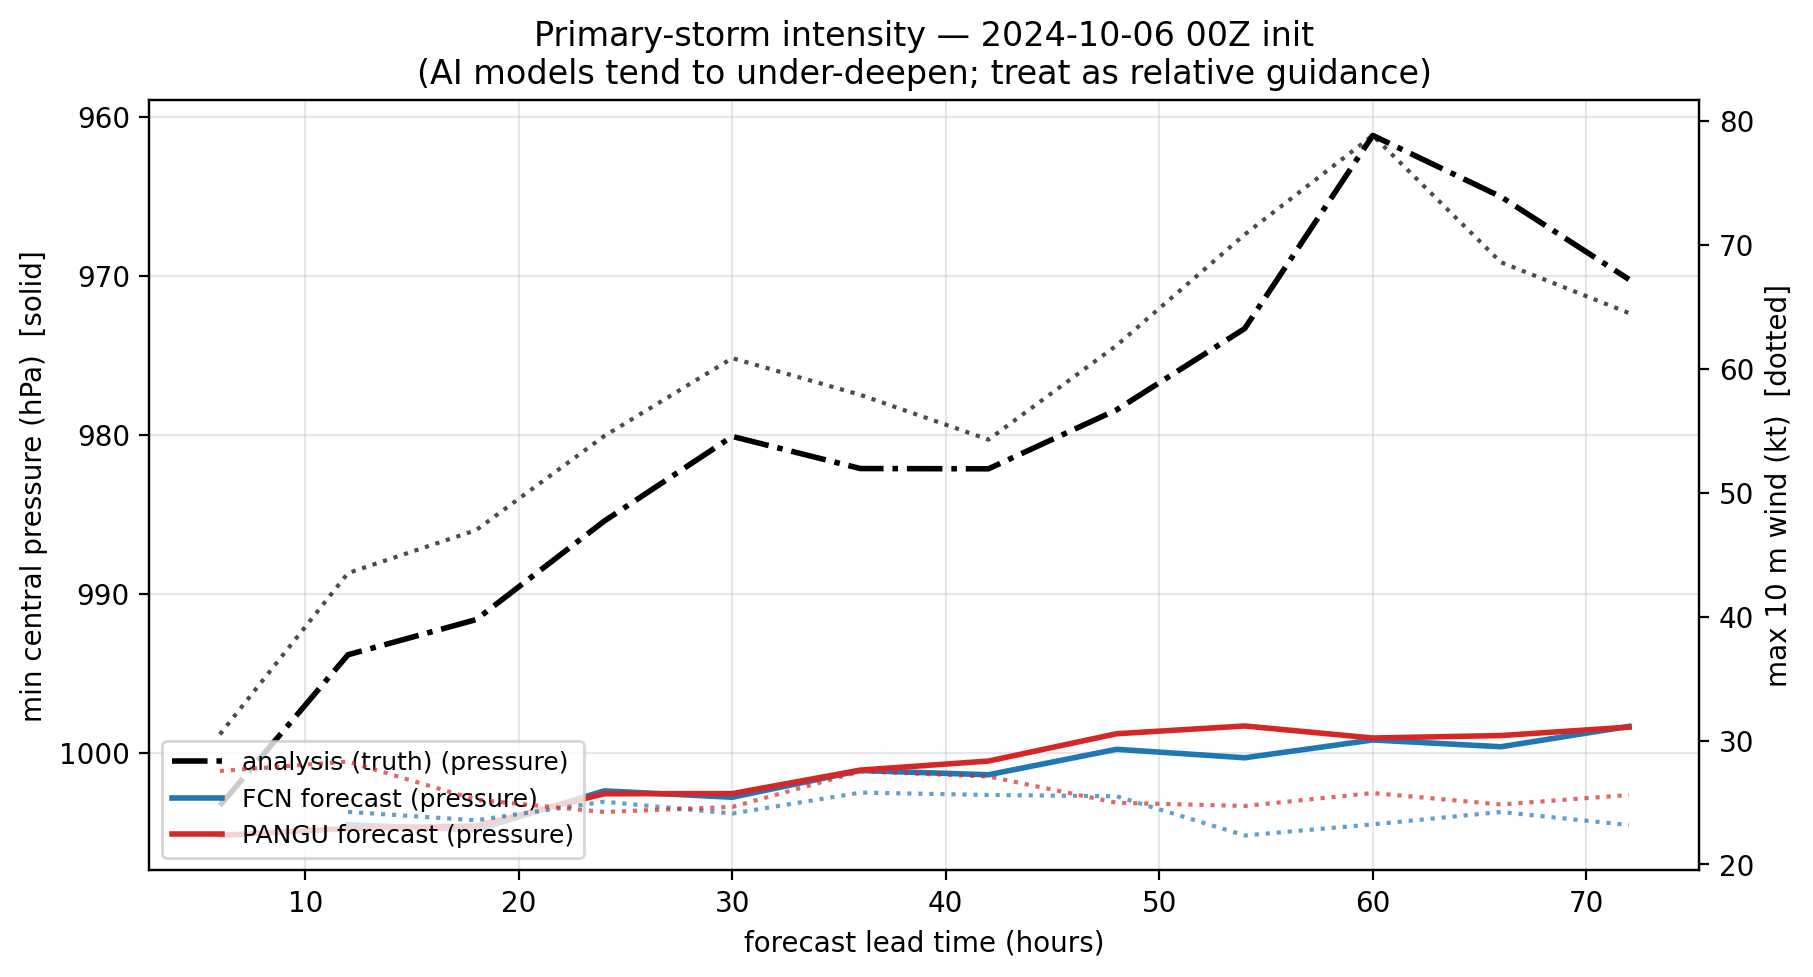
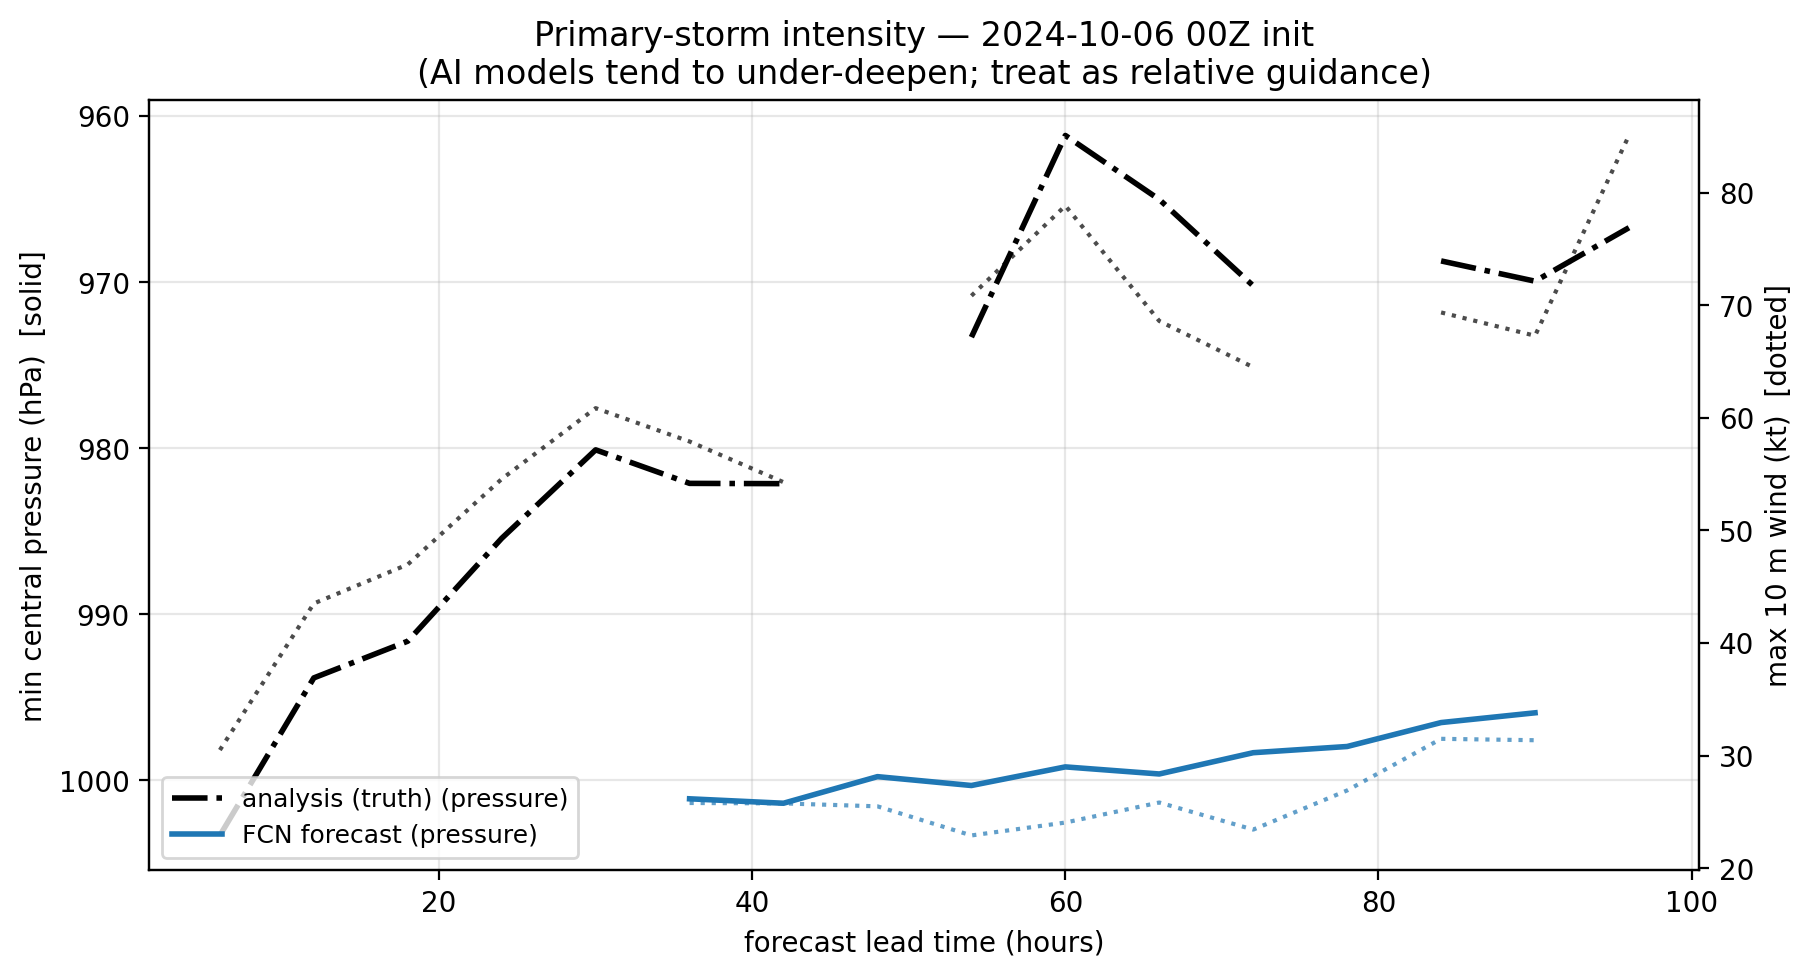
Refine cyclone tracking parameters and enhance documentation. Updated `cyclone_track.py` to include adjustable vorticity detection threshold, Saffir-Simpson category markers, and intensity gain settings. Enhanced README with new configuration options and clarified intensity estimation methods. Added

diff --git a/cyclone_track.py b/cyclone_track.py
@@ -40,15 +40,21 @@ import torch
 # ----------------------------------------------------------------------------
 # Configuration -- edit these (or override with WX_* env vars)
 # ----------------------------------------------------------------------------
-MODEL       = "pangu"           # single model: "fcn" | "pangu" | "sfno" | "aurora"
+MODEL       = "fcn"           # single model: "fcn" | "pangu" | "sfno" | "aurora"
 COMPARE     = []              # e.g. ["fcn", "pangu"] to overlay several models; [] -> just MODEL
 INTENSITY   = True            # also plot storm intensity (min pressure / max wind)
 USE_BF16    = True            # run torch models under bfloat16 autocast
 DATA_SOURCE = "gfs"           # "gfs" (live NOAA, archive ~2021->now) or "arco" (ERA5)
-START_TIME  = datetime(2026, 6, 5, 0)   # init time; GFS has 00/06/12/18Z cycles
+START_TIME  = datetime(2026, 6, 5, 12)   # init time; GFS has 00/06/12/18Z cycles
 NSTEPS      = 20              # forecast steps; 6h each -> 16 = 4 days, 40 = 10 days
 TRACK_TRUTH = False           # overlay analysis "truth" (only for past windows)
 MAP_EXTENT  = [-100, -78, 17, 32]    # [lon_min, lon_max, lat_min, lat_max] in [-180,180]
+VORT_THRESHOLD = 1.0e-4       # detection sensitivity (850 hPa vorticity, s^-1): LOWER = lock
+                              # onto weaker/earlier lows (more false alarms); HIGHER = only strong
+STRENGTH    = True            # color track markers by Saffir-Simpson category
+CATEGORY    = "estimate"      # "estimate" = ballpark Vmax from central-pressure depth (undoes
+                              #   0.25deg smoothing); "wind" = raw model 10m wind (~2-3 cats low)
+INTENSITY_GAIN = 2.0          # ["estimate" only] MSLP-deficit gain; ~2.0 lands Milton near Cat 4
 
 # --- optional env overrides (don't edit) ---
 MODEL       = os.environ.get("WX_MODEL", MODEL)
@@ -61,6 +67,10 @@ if os.environ.get("WX_START"):
     START_TIME = datetime.fromisoformat(os.environ["WX_START"])
 if os.environ.get("WX_EXTENT"):
     MAP_EXTENT = [float(v) for v in os.environ["WX_EXTENT"].split(",")]
+VORT_THRESHOLD = float(os.environ.get("WX_VORT", VORT_THRESHOLD))
+STRENGTH    = os.environ.get("WX_STRENGTH", str(STRENGTH)) == "True"
+CATEGORY    = os.environ.get("WX_CATEGORY", CATEGORY)
+INTENSITY_GAIN = float(os.environ.get("WX_GAIN", INTENSITY_GAIN))
 # ----------------------------------------------------------------------------
 
 os.makedirs("outputs", exist_ok=True)
@@ -125,6 +135,60 @@ def _patch_ort_low_vram():
 
 
 _patch_ort_low_vram()
+
+
+class SensitiveTCTracker(TCTrackerWuDuan):
+    """TCTrackerWuDuan with an adjustable 850 hPa vorticity detection threshold.
+    The base class calls `_find_centers(...)` with no override, so its hardcoded 1e-4
+    default always applies; here we expose it as a constructor arg to tune sensitivity.
+    (Track-linking knobs `path_search_distance`/`path_search_window_size` are left at
+    their defaults — pass them through **kw if you ever want to tune those too.)"""
+
+    def __init__(self, vort_threshold=1.0e-4, **kw):
+        super().__init__(**kw)
+        self.vort_threshold = float(vort_threshold)
+
+    def _find_centers(self, lat, lon, vort850, w10m, msl, vort850_threshold=None):
+        if vort850_threshold is None:
+            vort850_threshold = torch.tensor(self.vort_threshold)
+        return super()._find_centers(lat, lon, vort850, w10m, msl, vort850_threshold)
+
+
+# Saffir-Simpson scale: (min sustained 10 m wind in KNOTS, label, color). Strong -> weak.
+SAFFIR = [
+    (137, "Cat 5", "#a020f0"),
+    (113, "Cat 4", "#ff3030"),
+    (96,  "Cat 3", "#ff8c00"),
+    (83,  "Cat 2", "#ffc000"),
+    (64,  "Cat 1", "#ffe521"),
+    (34,  "Trop. Storm", "#34c759"),
+    (0,   "Trop. Depression", "#9aa0a6"),
+]
+
+
+def saffir(wind_kt):
+    """(label, color) for a max-sustained-wind value in knots (NaN -> depression bucket)."""
+    if wind_kt != wind_kt:  # NaN
+        return SAFFIR[-1][1], SAFFIR[-1][2]
+    for thr, label, color in SAFFIR:
+        if wind_kt >= thr:
+            return label, color
+    return SAFFIR[-1][1], SAFFIR[-1][2]
+
+
+def est_vmax_kt(mslp_hpa, wind_ms):
+    """Wind (kt) used for categorization.
+      CATEGORY='wind'     -> raw model 10 m wind. Honest, but a 0.25 deg grid can't resolve a
+                             hurricane core, so it reads ~2-3 categories low (even for analyses).
+      CATEGORY='estimate' -> ballpark Vmax from the storm's central-pressure DEPTH: inflate the
+                             MSLP deficit by INTENSITY_GAIN (to undo the coarse-grid smoothing),
+                             then apply the Atkinson-Holliday wind-pressure relation. Its 0.644
+                             power keeps shallow lows weak and boosts deep storms more -- an
+                             intensity-aware correction, NOT a calibrated intensity forecast."""
+    if CATEGORY == "wind":
+        return np.asarray(wind_ms) * 1.943844
+    deficit = np.maximum(1010.0 - np.asarray(mslp_hpa), 0.0) * INTENSITY_GAIN
+    return 6.7 * np.power(deficit, 0.644)
 
 
 def make_data_source():
@@ -273,18 +337,40 @@ def plot_tracks(truth, results):
             lat = paths[0, p, :, 0]
             lon = wrap_lon(paths[0, p, :, 1])
             m = ~np.isnan(lat) & ~np.isnan(lon)
-            if m.sum() > 2:
-                ax.plot(lon[m], lat[m], color=color, linestyle=style, linewidth=1.6,
-                        marker="x" if style != "-" else None, markersize=3,
-                        label=label if first else None, **tf)
-                first = False
+            if m.sum() <= 2:
+                continue
+            # the LINE encodes which model/source (thin when category markers are drawn on top)
+            ax.plot(lon[m], lat[m], color=color, linestyle=style,
+                    linewidth=1.3 if STRENGTH else 1.6, alpha=0.6 if STRENGTH else 1.0,
+                    marker=None if STRENGTH else ("x" if style != "-" else None), markersize=3,
+                    label=label if first else None, **tf)
+            first = False
+            if STRENGTH:
+                # the MARKERS encode (estimated) Saffir-Simpson category -- see est_vmax_kt/CATEGORY
+                vmax = est_vmax_kt(paths[0, p, m, 2] / 100.0, paths[0, p, m, 3])
+                ax.scatter(lon[m], lat[m], c=[saffir(w)[1] for w in vmax],
+                           s=24, edgecolors="black", linewidths=0.3, zorder=5, **tf)
 
     draw(truth, "black", "-.", f"{DATA_SOURCE.upper()} analysis (truth)")
     for name, paths in results.items():
         draw(paths, MODEL_COLOR.get(name, "tab:orange"), "-", f"{name.upper()} AI forecast")
-    ax.legend(loc="upper right", title="Cyclone tracks", fontsize=9)
+
+    leg1 = ax.legend(loc="upper right", title="Track (line = source)", fontsize=9)
+    ax.add_artist(leg1)
+    if STRENGTH:
+        from matplotlib.lines import Line2D
+        handles = [Line2D([0], [0], marker="o", linestyle="none", markerfacecolor=c,
+                          markeredgecolor="k", markersize=7, label=l)
+                   for (_, l, c) in reversed(SAFFIR)]
+        cat_title = (f"Marker = est. category (pressure ×{INTENSITY_GAIN:g})"
+                     if CATEGORY == "estimate" else "Marker = category (model wind)")
+        ax.legend(handles=handles, loc="lower left", fontsize=8, title=cat_title)
     title_models = " vs ".join(n.upper() for n in results)
     plt.title(f"AI Tropical Cyclone Tracks — {title_models}\n{START_TIME:%Y-%m-%d %HZ} → {end_time:%Y-%m-%d %HZ}")
+    if STRENGTH and CATEGORY == "estimate":
+        plt.figtext(0.5, 0.005, "Category = rough ballpark from central-pressure depth "
+                    "(resolution-corrected), not a calibrated intensity forecast.",
+                    ha="center", fontsize=7, style="italic")
     out = "outputs/cyclone_tracks.jpg"
     plt.savefig(out, bbox_inches="tight", dpi=200)
     print(f"[plot] saved {out}")
@@ -328,8 +414,8 @@ def plot_intensity(truth, results):
 
 
 def main():
-    print("[load] TC tracker (TCTrackerWuDuan)...")
-    tracker = TCTrackerWuDuan().to(device)
+    print(f"[load] TC tracker (vort_threshold={VORT_THRESHOLD:.2e})...")
+    tracker = SensitiveTCTracker(vort_threshold=VORT_THRESHOLD).to(device)
     tracker_lat = tracker.input_coords()["lat"]
     data = make_data_source()
 

diff --git a/README.md b/README.md
@@ -55,6 +55,10 @@ Edit the config block at the top of [`cyclone_track.py`](cyclone_track.py):
 | `MODEL` | single model: `"fcn"` \| `"pangu"` \| `"sfno"` \| `"aurora"` |
 | `COMPARE` | list to overlay several models, e.g. `["fcn", "pangu"]` (`[]` = just `MODEL`) |
 | `INTENSITY` | `True` → also plot min-pressure / max-wind of the primary storm |
+| `STRENGTH` | `True` → color track markers by Saffir-Simpson category |
+| `CATEGORY` | `"estimate"` = ballpark Vmax from central-pressure depth (resolution-corrected) · `"wind"` = raw model 10 m wind (~2–3 cats low) |
+| `INTENSITY_GAIN` | (estimate mode) MSLP-deficit gain; `~2.0` lands Milton near Cat 4 |
+| `VORT_THRESHOLD` | detection sensitivity (850 hPa vorticity, default `1e-4`); **lower = lock onto weaker lows**, higher = only strong storms |
 | `DATA_SOURCE` | `"gfs"` (live, ~2021→now) or `"arco"` (ERA5, any historical date) |
 | `START_TIME` | init time; GFS only has 00/06/12/18Z cycles |
 | `NSTEPS` | forecast steps (6 h each; 16 = 4 days, 40 = 10 days) |
@@ -112,11 +116,19 @@ These were the non-obvious fixes — keep them if you rebuild the env:
 | **Aurora** (0.25°) | ❌ ~24 GB+ | best TC model; activation-bound, offload doesn't help |
 | **GraphCast / GenCast** | ⚠️ | JAX on CUDA-13; heavier |
 
-## Note on intensity
+## Note on intensity (and the `CATEGORY` estimate)
 
-AI models track cyclones well but **systematically under-deepen** them: in the Milton
-demo the GFS analysis bottomed near ~942 hPa / 78 kt while FCN and Pangu kept it near
-~1000 hPa / 30 kt. Treat the intensity panel as *relative* guidance, not a Cat rating.
+A 0.25° grid can't resolve a hurricane core, so **both the model *and* the GFS analysis
+under-deepen storms**. For Hurricane Milton (real peak ~897 hPa / 160 kt, Cat 5) the
+tracker recorded the *GFS analysis* at only **961 hPa / 85 kt** and the *FCN forecast* at
+**996 hPa / 31 kt** — so raw winds read ~2–3 categories low *even for the "truth"*.
+
+`CATEGORY="estimate"` (default) gives a ballpark by inflating the central-pressure deficit
+(`INTENSITY_GAIN`) and applying the **Atkinson–Holliday** wind–pressure relation; its 0.644
+power keeps shallow lows weak and boosts deep storms more. That puts Milton's analysis at
+~**Cat 4** and FCN at ~**TS** (still honestly weaker). It's a rough estimate, **not a
+calibrated forecast** — for real verification of a past storm, compare to NHC best track.
+Use `CATEGORY="wind"` for the raw, honest-but-low model wind.
 
 ## Ideas to extend
 